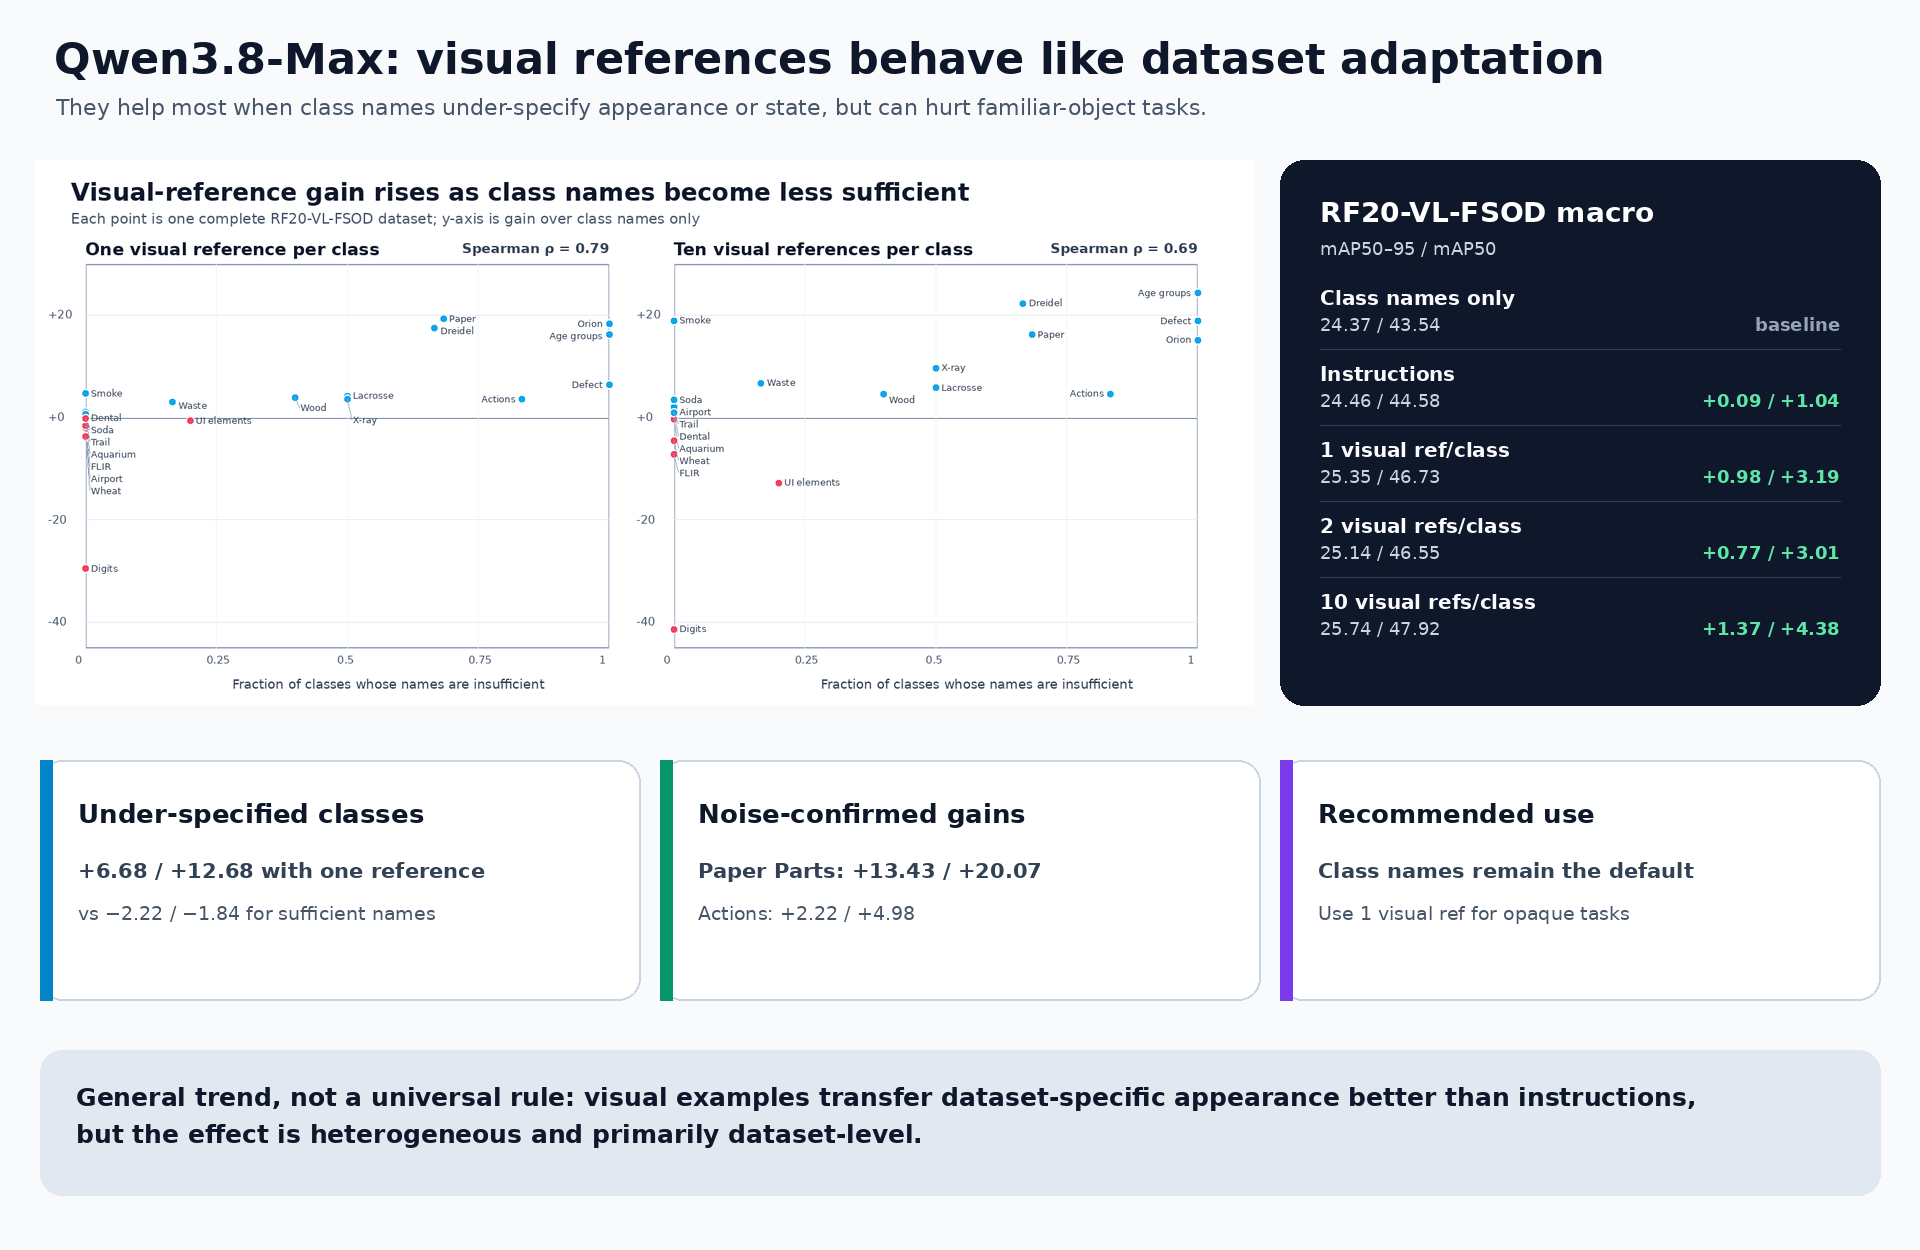
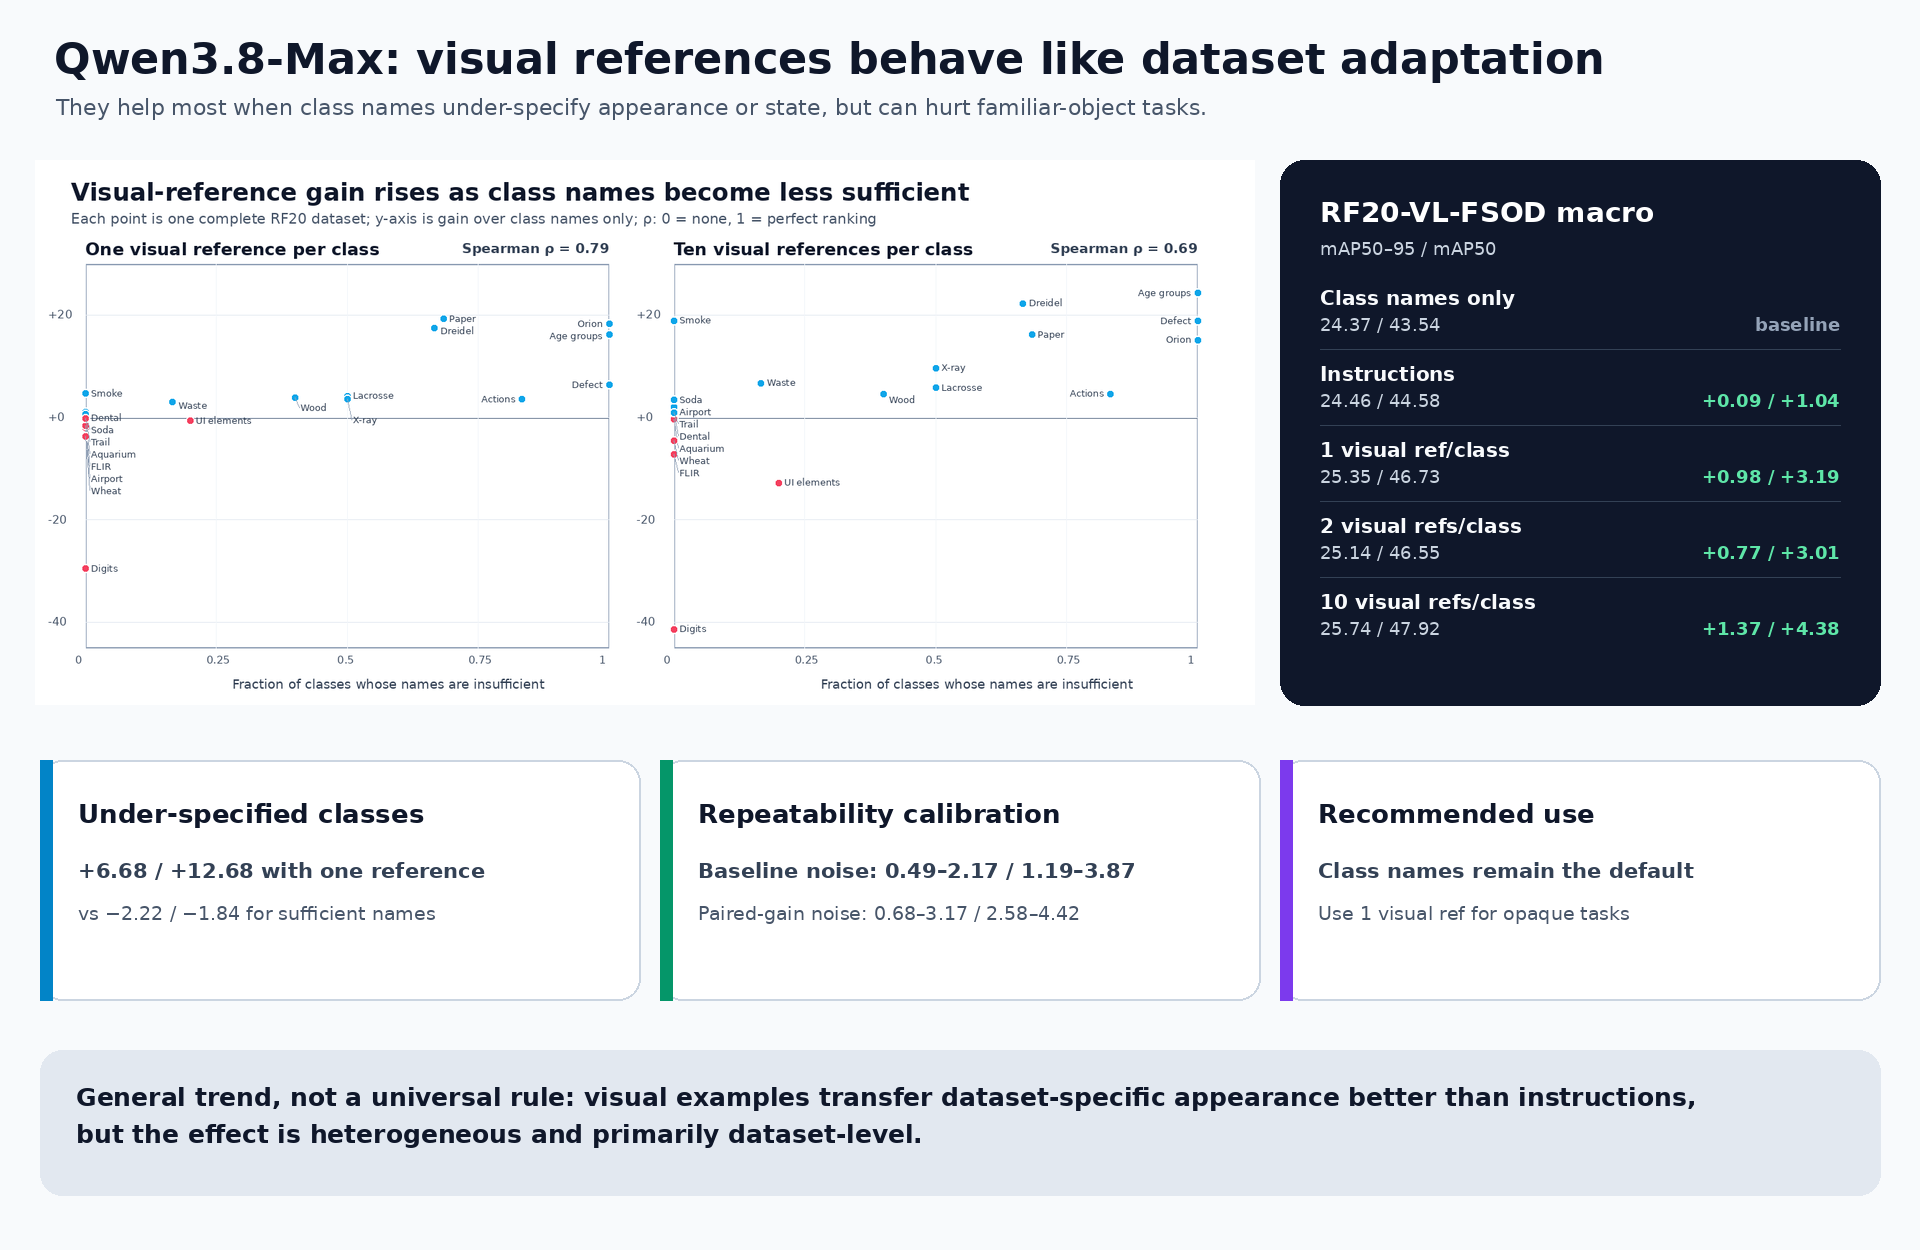
Clarify Qwen context study statistics

diff --git a/analysis/generate_qwen38_context_adaptation_figures.py b/analysis/generate_qwen38_context_adaptation_figures.py
@@ -550,7 +550,7 @@ def draw_scatter(output_root: Path) -> None:
     )
     draw.text(
         (50, 70),
-        "Each point is one complete RF20-VL-FSOD dataset; y-axis is gain over class names only",
+        "Each point is one complete RF20 dataset; y-axis is gain over class names only; ρ: 0 = none, 1 = perfect ranking",
         fill="#475569",
         font=font(20),
     )
@@ -730,9 +730,9 @@ def draw_shareable_summary(output_root: Path) -> None:
         ),
         (
             660,
-            "Noise-confirmed gains",
-            "Paper Parts: +13.43 / +20.07",
-            "Actions: +2.22 / +4.98",
+            "Repeatability calibration",
+            "Baseline noise: 0.49–2.17 / 1.19–3.87",
+            "Paired-gain noise: 0.68–3.17 / 2.58–4.42",
             "#059669",
         ),
         (

diff --git a/QWEN38_CONTEXT_ADAPTATION_REPORT.md b/QWEN38_CONTEXT_ADAPTATION_REPORT.md
@@ -11,6 +11,37 @@ We evaluated one multi-class request per test image on all 20 RF20-VL-FSOD
 datasets: 3,970 images, reasoning off, temperature 0, fixed seed, normalized
 0–1000 XYXY reference boxes, and COCO `maxDets=500` scoring.
 
+## How to read the scores and noise
+
+Every score pair in this report is `mAP50–95 / mAP50`; higher is better. A
+gain is the prompted score minus the class-names-only score on the same
+dataset.
+
+Temperature 0 and a fixed seed did not make the hosted API deterministic. We
+therefore ran six complete, matched passes on three of the larger datasets and
+measured two kinds of run-to-run variation:
+
+| Dataset | Test images | Names-only score noise | One-reference gain noise |
+|---|---:|---:|---:|
+| Actions | 409 | 0.49 / 1.19 | 0.68 / 2.58 |
+| Paper Parts | 500 | 0.95 / 3.87 | 3.01 / 3.86 |
+| Defect Detection | 188 | 2.17 / 2.89 | 3.17 / 4.42 |
+
+Each value is a conservative repeatability threshold: the larger of the
+observed six-run range and the estimated 95% repeatability limit.
+**Names-only score noise** is how much an unchanged baseline moved between
+runs. **One-reference gain noise** is how much the measured difference between
+the reference and baseline conditions moved; it is the relevant threshold when
+judging a reference gain. Across these datasets, that threshold ranged from
+**0.68–3.17 mAP50–95** and **2.58–4.42 mAP50**.
+
+These values are a calibration range, not a measured RF20-wide noise floor,
+because all 20 datasets were not repeated. The three datasets were initially
+selected because they were relatively large and had positive reference gains,
+so they establish whether those particular gains repeat, not how often gains
+occur. The exact threshold definition and six-run results are in the
+[noise study](QWEN38_LARGE_DATASET_NOISE_RESULT.md).
+
 ## Shareable figures
 
 [![Shareable Qwen3.8-Max context-adaptation summary](figures/qwen38_context_adaptation/shareable_context_adaptation_summary.png)](figures/qwen38_context_adaptation/shareable_context_adaptation_summary.png)
@@ -31,38 +62,62 @@ Scores are dataset-macro `mAP50–95 / mAP50`.
 | 2 positive visual references/class | 25.14 | 46.55 | +0.77 / +3.01 | $44.43 |
 | 10 positive visual references/class | **25.74** | **47.92** | **+1.37 / +4.38** | $116.79 |
 
-Using the three repeated larger datasets as a noise proxy, instructions are
-within noise, one and two references are borderline in the RF20 macro, and ten
-references reach roughly the upper noise boundary only for mAP50. The global
-average therefore hides the important behavior: **the direction and size of the
-effect depend strongly on the dataset.**
+Compared with the repeatability range above, instructions are within noise, one
+and two references are borderline in the RF20 macro, and ten references only
+approach the upper end of the proxy range for mAP50. The macro average hides the
+main finding: **the direction and size of the effect depend strongly on the
+dataset.**
 
 ![Visual-reference gain versus label insufficiency](figures/qwen38_context_adaptation/label_insufficiency_vs_visual_gain.png)
 
-The score-blind class-name ratings were locked before the instruction study was
-scored. Across datasets, the fraction of under-specified labels strongly
-predicts visual-reference gain:
+## Does label ambiguity predict who benefits?
 
-| Pre-rated dataset property | 1 reference | 2 references | 10 references |
-|---|---:|---:|---:|
-| Fraction of class names judged insufficient | **0.80 / 0.79** | **0.70 / 0.77** | **0.56 / 0.69** |
-| Fraction requiring state or scene context | 0.48 / 0.62 | 0.43 / 0.55 | 0.49 / 0.54 |
+Before the instruction study was scored, we rated each of the 110 class names
+using only the label text. A class was marked **under-specified** when its name
+alone did not clearly identify the intended visual target or annotation
+meaning. For each of the 20 datasets, we then compared:
 
-Values are Spearman correlations with `mAP50–95 / mAP50` gain. Every
-leave-one-dataset-out correlation remains positive. For one reference,
-controlling for class-names-only accuracy, image count, and class count leaves
-correlations of **0.83 / 0.75**.
+1. the fraction of its classes marked under-specified; and
+2. its score gain from visual references.
 
-At class level, the separation is similarly large:
+The exact 110 ratings and criteria are in the locked
+[label-sufficiency file](qwen38-fsod-configs/rf20-label-sufficiency-ratings.json).
 
-| Visual context | Under-specified classes | Classes with sufficient names | Difference |
-|---|---:|---:|---:|
-| 1 reference | +6.68 / +12.68 | −2.22 / −1.84 | **+8.90 / +14.52** |
-| 10 references | +6.57 / +13.88 | −3.89 / −4.97 | **+10.46 / +18.85** |
+The table reports Spearman rank correlation, where `0` means no ranking
+relationship and `1` means a perfect positive relationship. These are
+correlations, not mAP values.
 
-The mAP50 differences are outside the dataset-clustered 95% intervals. The
-mAP50–95 evidence is weaker, suggesting that references help concept
-recognition more consistently than precise box localization.
+| References per class | Correlation with mAP50–95 gain | Correlation with mAP50 gain | Interpretation |
+|---:|---:|---:|---|
+| 1 | **0.80** | **0.79** | Strong positive relationship |
+| 2 | **0.70** | **0.77** | Strong positive relationship |
+| 10 | **0.56** | **0.69** | Moderate-to-strong positive relationship |
+
+In plain language, datasets containing more unclear or dataset-specific class
+names generally received larger visual-reference gains. The relationship
+remained positive after removing any one dataset, so no single dataset created
+the overall trend. For one reference, it also remained strong after adjusting
+for baseline accuracy, test-image count, and class count: **0.83 mAP50–95 / 0.75
+mAP50**. A narrower rating for labels requiring state or scene context showed
+the same direction but a weaker relationship: **0.48 / 0.62** with one
+reference, **0.43 / 0.55** with two, and **0.49 / 0.54** with ten.
+
+A second analysis grouped the 110 individual classes by the pre-rated label:
+
+| References per class | 47 under-specified classes: average gain | 63 sufficient-name classes: average gain | Gap between groups |
+|---:|---:|---:|---:|
+| 1 | +6.68 / +12.68 | −2.22 / −1.84 | **+8.90 / +14.52** |
+| 10 | +6.57 / +13.88 | −3.89 / −4.97 | **+10.46 / +18.85** |
+
+For example, with one reference the under-specified classes gained an average
+of **6.68 mAP50–95 / 12.68 mAP50**, while classes whose names were already
+sufficient lost **2.22 / 1.84**. The last column is simply the difference
+between those group averages.
+
+The group separation is statistically clear for mAP50 after accounting for
+classes sharing the same dataset. It is not clear for mAP50–95. This suggests
+that references improve recognizing *what* should be detected more consistently
+than they improve precise localization across stricter IoU thresholds.
 
 ## Where visual adaptation helped
 
@@ -138,26 +193,28 @@ ratings themselves were assigned without viewing scores, but the hypothesis was
 motivated by earlier visual-prompt results. A new semantic-control run is needed
 for confirmation.
 
-## Noise and instruction controls
+## What the repeat and instruction controls established
 
-The repeated larger-dataset study confirms that visual gains are real on some
-datasets rather than API variance.
+The six matched passes confirmed that one-reference gains were much larger than
+run-to-run variation on Paper Parts and Actions. Defect Detection stayed
+positive, but its one-reference gain remained within the paired-gain noise
+threshold shown at the beginning of this report.
 
-| Dataset | Measured names-only noise | Instructions | 1 reference after repeats | 2 references | 10 references |
-|---|---:|---:|---:|---:|---:|
-| Actions | 0.49 / 1.19 | inconclusive / within | **+2.22 / +4.98, outside** | **+2.55 / +5.35, outside** | **+2.02 / +4.57, outside**<sup>†</sup> |
-| Paper Parts | 0.95 / 3.87 | within | **+13.43 / +20.07, outside** | **+9.89 / +16.10, outside** | **+9.73 / +16.13, outside**<sup>†</sup> |
-| Defect Detection | 2.17 / 2.89 | **outside** | +2.03 / +3.60, within paired noise | **+7.40 / +10.97, outside** | **+11.25 / +18.85, outside** |
+| Dataset | Six-run mean one-reference gain | Paired-gain noise | Judgment |
+|---|---:|---:|---|
+| Actions | +2.22 / +4.98 | 0.68 / 2.58 | **Clearly above noise** |
+| Paper Parts | +13.43 / +20.07 | 3.01 / 3.86 | **Clearly above noise** |
+| Defect Detection | +2.03 / +3.60 | 3.17 / 4.42 | Within noise |
 
-<sup>†</sup> Actions and Paper Parts were not independently repeated at exactly ten
-references; those changes exceed names-only noise, while Defect Detection's
-ten-reference result was directly repeated.
+Instructions are not ignored. In a six-dataset control, the correct
+dataset-specific instructions beat instructions shuffled from other classes by
+**+4.38 / +8.25**. The model was therefore using their content, not merely
+reacting to a longer prompt. However, correct instructions still scored
+**−2.97 / −4.13** below class names alone on this matched subset, so they were
+not a reliable universal addition.
 
-Instructions are not ignored. In the six-dataset semantic control, correct
-instructions beat strictly class-shuffled instructions by **+4.38 / +8.25**.
-The strict arm had 12 terminal model-output failures, but the gap remains
-**+4.48 / +8.47** after excluding Actions, which contained 10 of them. Correct
-instructions nevertheless failed as a universal accuracy addition:
+<details>
+<summary><strong>All six-dataset instruction-control scores</strong></summary>
 
 | Six-dataset matched arm | mAP50–95 | mAP50 |
 |---|---:|---:|
@@ -168,11 +225,17 @@ instructions nevertheless failed as a universal accuracy addition:
 | Conservative shuffled instructions | 19.91 | 38.77 |
 | Strictly shuffled instructions | 15.57 | 30.36 |
 
-Ten references are more selectively useful than instructions for
-under-specified classes. Their advantage over instruction gains is
-**+5.79 / +10.43** for insufficient names and **+7.21 / +11.28** for classes
-requiring state or context, with dataset-clustered intervals above zero. The
-same one-reference comparison trends positive but remains within uncertainty.
+The strict shuffled arm had 12 terminal model-output failures, but correct
+instructions still beat it by **+4.48 / +8.47** after excluding Actions, which
+contained 10 of those failures.
+
+</details>
+
+For under-specified classes, the gain from ten visual references exceeded the
+gain from instructions by **+5.79 / +10.43**. For classes requiring state or
+scene context, the advantage was **+7.21 / +11.28**. Both differences remained
+above zero after accounting for classes sharing a dataset. One reference showed
+the same direction, but that comparison was still within uncertainty.
 
 ## Decision
 
@@ -219,6 +282,7 @@ Each cell is `mAP50–95 / mAP50`.
 - Quantitative source: [`qwen38-fsod-runs/instruction-study-v2/analysis/rf20_per_dataset.csv`](qwen38-fsod-runs/instruction-study-v2/analysis/rf20_per_dataset.csv)
 - Class-level source: [`qwen38-fsod-runs/instruction-study-v2/analysis/rf20_per_class.csv`](qwen38-fsod-runs/instruction-study-v2/analysis/rf20_per_class.csv)
 - Noise study: [`QWEN38_LARGE_DATASET_NOISE_RESULT.md`](QWEN38_LARGE_DATASET_NOISE_RESULT.md)
+- Locked class-name ratings: [`qwen38-fsod-configs/rf20-label-sufficiency-ratings.json`](qwen38-fsod-configs/rf20-label-sufficiency-ratings.json)
 - Figure generator: [`analysis/generate_qwen38_context_adaptation_figures.py`](analysis/generate_qwen38_context_adaptation_figures.py)
 - Exact illustrated image/reference IDs: [`figures/qwen38_context_adaptation/selection_manifest.json`](figures/qwen38_context_adaptation/selection_manifest.json)
 
